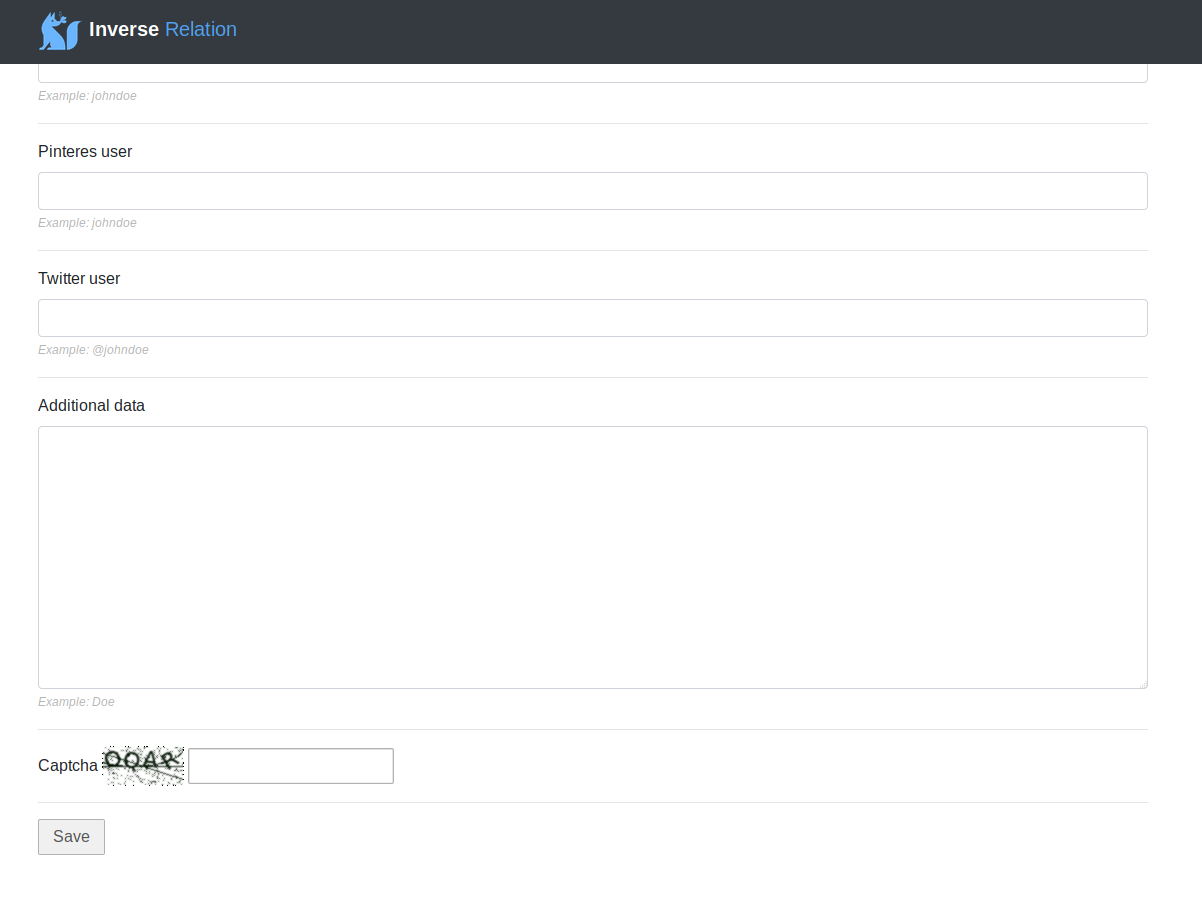
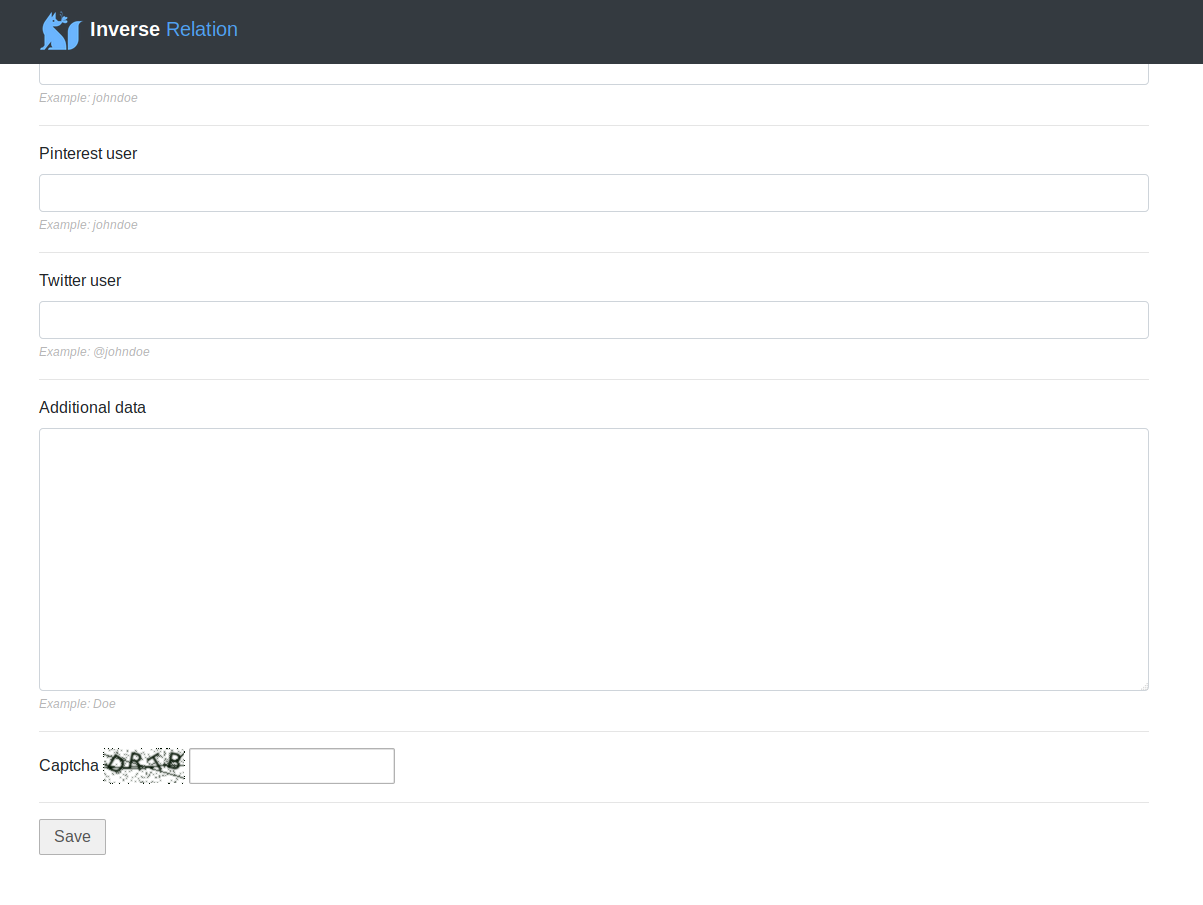
Bugs fixed

diff --git a/webapp/templates/webapp/base.html b/webapp/templates/webapp/base.html
@@ -54,7 +54,6 @@
     <script src="{% static "vendor/jquery/jquery.min.js" %}" ></script>
     <script src="{% static "vendor/bootstrap/js/bootstrap.bundle.min.js" %}" ></script>
 
-
     <!-- Plugin JavaScript -->
     <script src="{% static "vendor/jquery-easing/jquery.easing.min.js" %}" ></script>
 

diff --git a/webapp/forms.py b/webapp/forms.py
@@ -12,7 +12,7 @@ class ContactForm(ModelForm):
         model = Contact
         fields = ("name", "surname", "nick_name", "alias", "place", "birth_date", "phone_number_one",
                   "phone_number_two", "phone_number_three", "email_one", "email_two", "email_three", "email_four",
-                  "telegram_user", "github_user", "bitbucket_user", "facebook_user", "pinteres_user", "twitter_user",
+                  "telegram_user", "github_user", "bitbucket_user", "facebook_user", "pinterest_user", "twitter_user",
                   "additional_data")
         widgets = {
             'name': TextInput(attrs={'class': 'form-control'}),
@@ -32,7 +32,7 @@ class ContactForm(ModelForm):
             'github_user': TextInput(attrs={'class': 'form-control'}),
             'bitbucket_user': TextInput(attrs={'class': 'form-control'}),
             'facebook_user': TextInput(attrs={'class': 'form-control'}),
-            'pinteres_user': TextInput(attrs={'class': 'form-control'}),
+            'pinterest_user': TextInput(attrs={'class': 'form-control'}),
             'twitter_user': TextInput(attrs={'class': 'form-control'}),
             'additional_data': Textarea(attrs={'class': 'form-control'})
         }

diff --git a/webapp/models.py b/webapp/models.py
@@ -27,7 +27,7 @@ class Contact(models.Model):
     github_user = models.CharField(max_length=30, null=True, blank=True, help_text="Example: johndoe")
     bitbucket_user = models.CharField(max_length=30, null=True, blank=True, help_text="Example: johndoe")
     facebook_user = models.CharField(max_length=30, null=True, blank=True, help_text="Example: johndoe")
-    pinteres_user = models.CharField(max_length=30, null=True, blank=True, help_text="Example: johndoe")
+    pinterest_user = models.CharField(max_length=30, null=True, blank=True, help_text="Example: johndoe")
     twitter_user = models.CharField(max_length=30, null=True, blank=True, help_text="Example: @johndoe")
 
     additional_data = models.CharField(max_length=100, null=True, blank=True, help_text="Example: Doe")

diff --git a/webapp/admin.py b/webapp/admin.py
@@ -6,5 +6,5 @@ from django.contrib import admin
 class ContactAdmin(admin.ModelAdmin):
     list_display = ["name", "surname", "nick_name", "alias", "place", "birth_date", "phone_number_one",
                     "phone_number_two", "phone_number_three", "email_one", "email_two", "email_three", "email_four",
-                    "telegram_user", "github_user", "bitbucket_user", "facebook_user", "pinteres_user", "twitter_user",
+                    "telegram_user", "github_user", "bitbucket_user", "facebook_user", "pinterest_user", "twitter_user",
                     "additional_data"]

diff --git a/contact/credentials.py b/contact/credentials.py
@@ -1,1 +1,1 @@
-DJANGO_PASSWORD='5cxrE4w!C/Re&b42^/etcQ2BR$4!V_V%4+rcV*-315_rc*xvc21*W#xEt3SbvgR='
+DJANGO_PASSWORD='ZaWX4R!^xQGG&Ws1c_/bXz$*DVdZXwf/dvgvAwzF5gat2D|b*!r&#14s+B!e%g-q'

diff --git a/README.md b/README.md
@@ -1,5 +1,10 @@
 # Inverse Relation
 
+
+## Model
+
+![Model](doc-img/ER.png  "Model")
+
 ## Install and run Inverse Relation
 
 Install "Inverse Relation" contact form.
@@ -14,10 +19,17 @@ First time and test.
 ./clean-run.sh
 ```
 
-Use run.sh normally. Use it with supervisor on your server.
+Use run.sh normally. Use it as debug mode
 
 ```
 ./run.sh
+```
+
+Use run.sh normally. Use it on your server with Nignx, Gunicorn and Supervisor.
+Remember: You should change on settings_production.py your **ALLOWED_HOSTS**
+
+```
+./run-production.sh
 ```
 
 Finally, try it...
